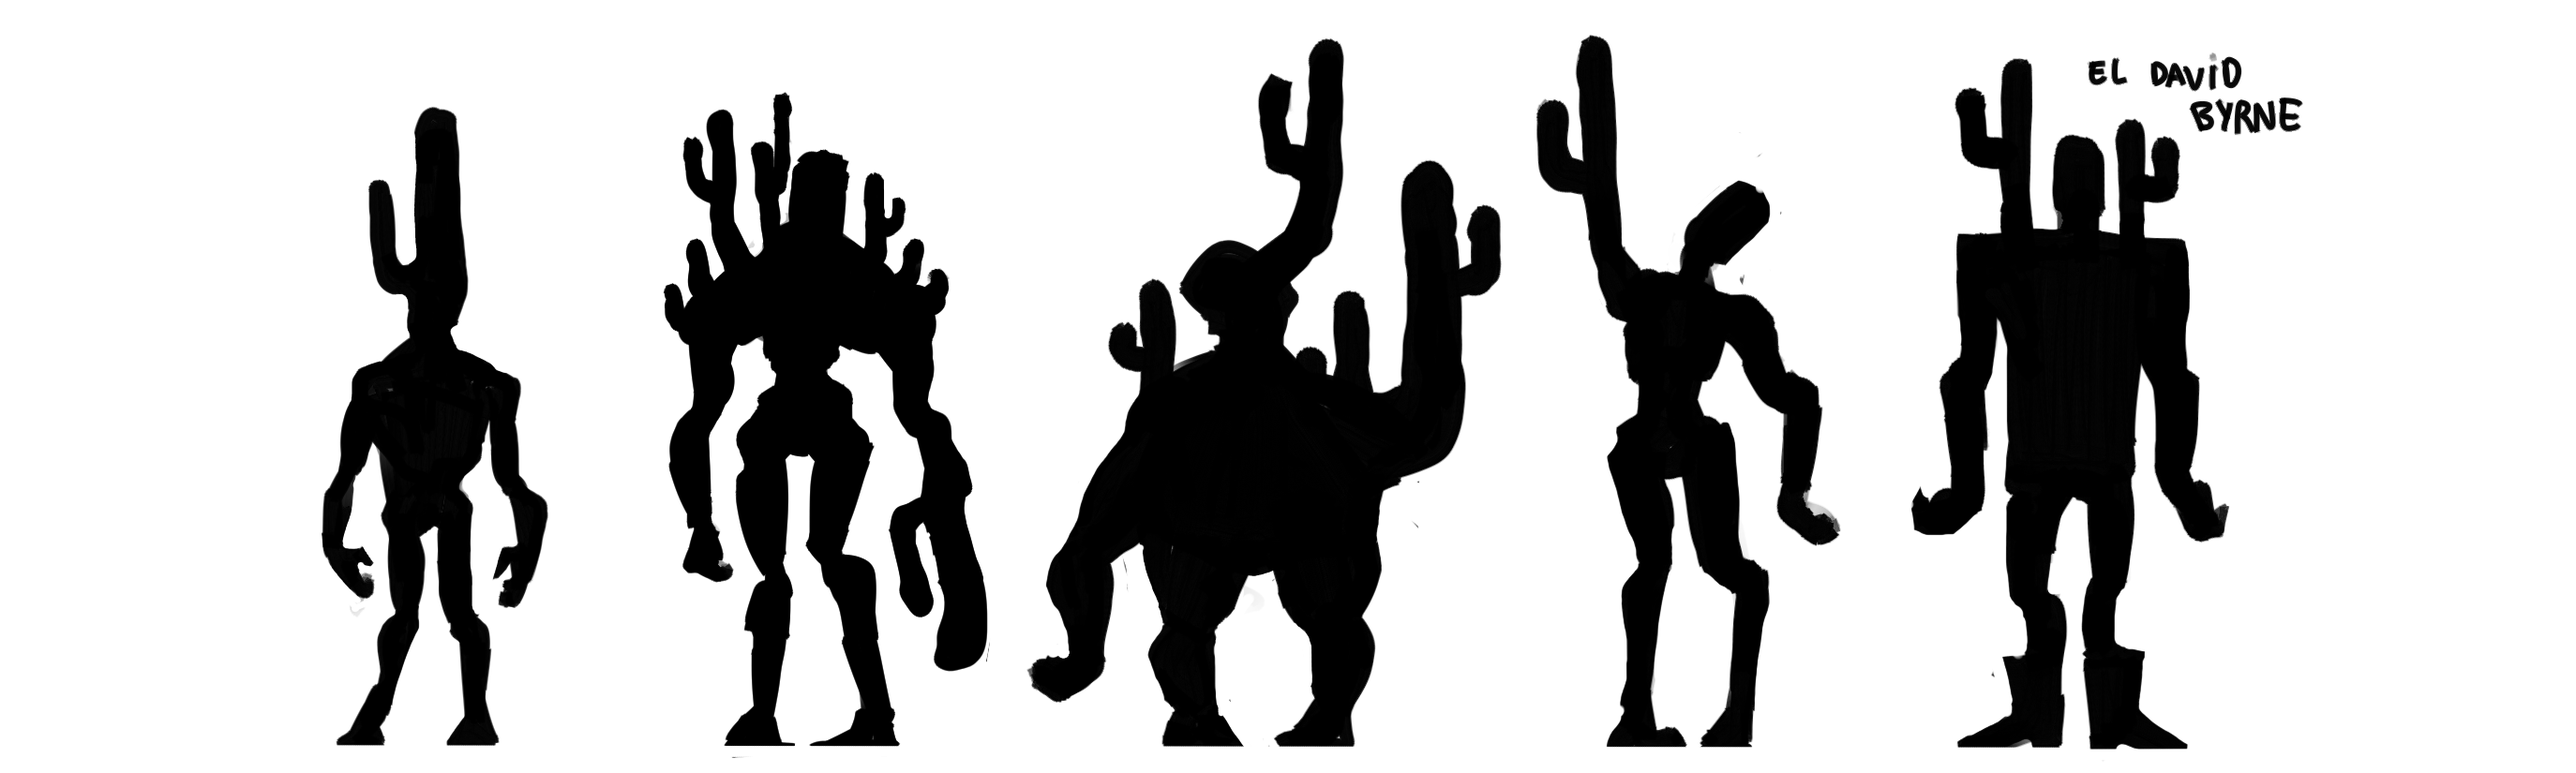
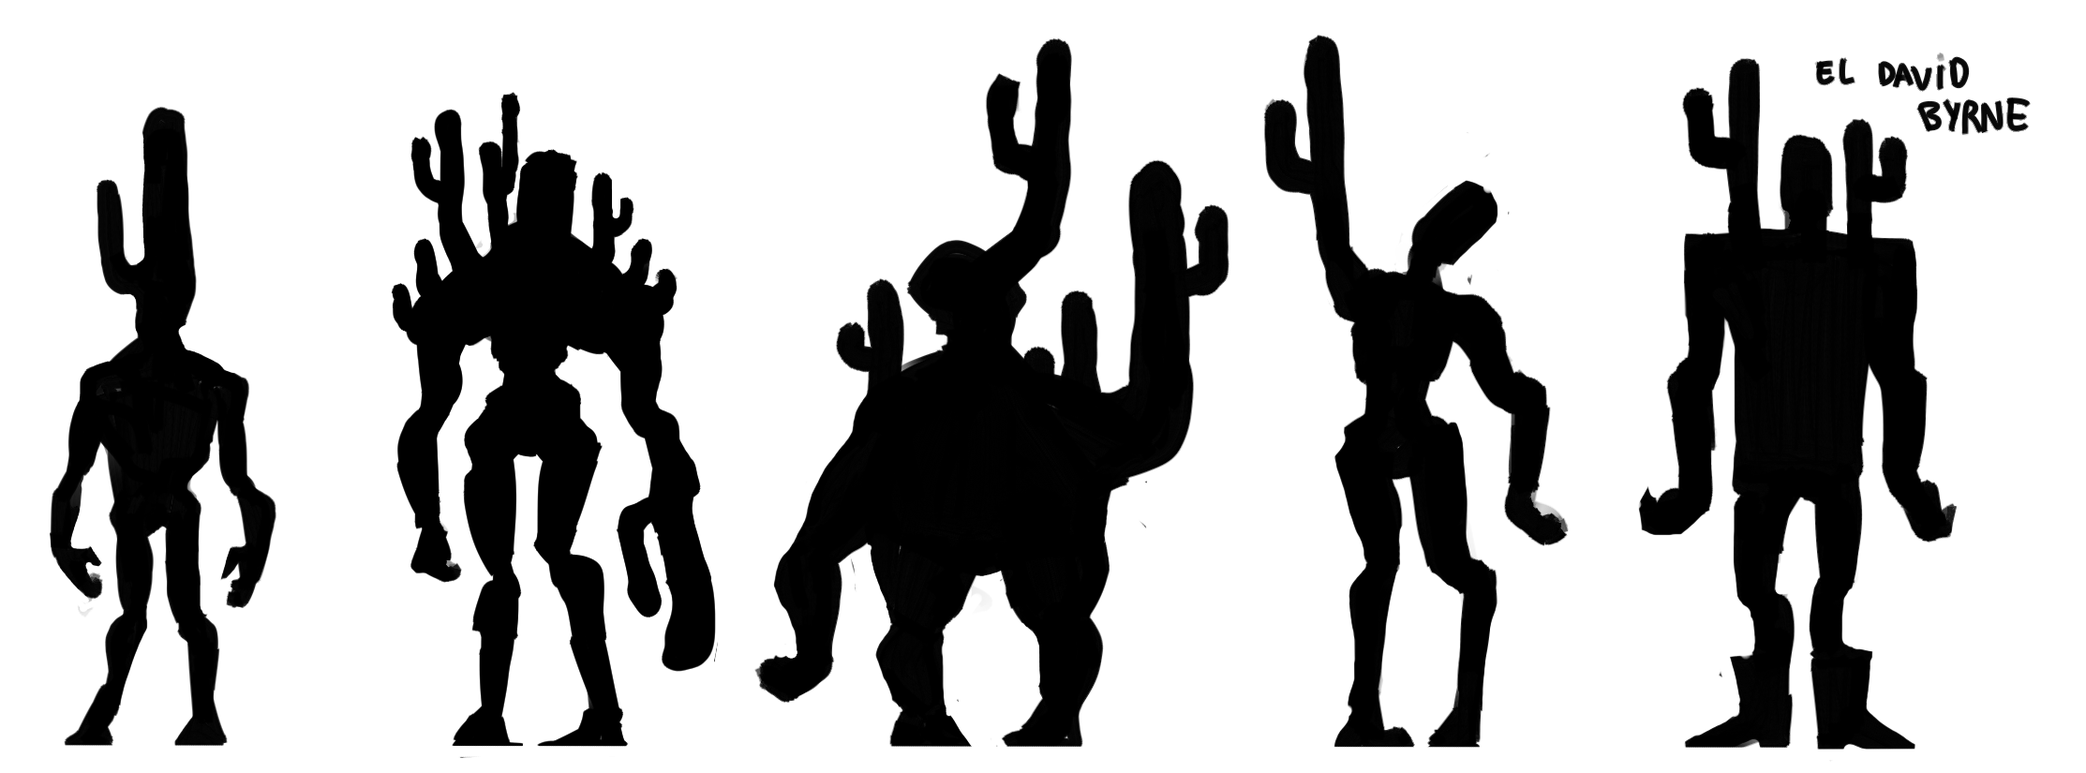
Update README.md
- Actualizacion de trasfondo (comentado lo anterior)
- Indexado nuevo por números (1.1, 1.2...)
- Siluetas enemigos actualizadas y ajustadas
:P

diff --git a/README.md b/README.md
@@ -1,23 +1,27 @@
-# Proyecto_Coyote 
-GAME DESIGN DOCUMENT
+# PROYECTO COYOTE
+**GAME DESIGN DOCUMENT**
 
-Eduardo Almarza Blasco • Antonio Bernal de Celis • David del Castillo Enríquez • Diego Fernández Manso • Candel Jiménez Gonzáles • Andrea Luengo Zazo 
+Eduardo Almarza Blasco • Antonio Bernal de Celis • David del Castillo Enríquez • Diego Fernández Manso • Candela Jiménez González • Andrea Luengo Zazo 
 
-# INTRODUCCIÓN 
-Este documento presenta el diseño y desarrollo del videojuego “Proyecto Coyote”, donde se expondrá el proceso creativo a lo largo del tiempo hasta su lanzamiento final. 
+# 1. Introducción
+**Este documento presenta el diseño y desarrollo del videojuego “Proyecto Coyote”, donde se expondrá el proceso creativo a lo largo del tiempo hasta su lanzamiento final.**
 
 “Proyecto Coyote” es un juego de acción frenética en 3D con cámara en tercera persona, centrado en la gestión de múltiples enemigos y el combate cuerpo a cuerpo. 
-## Concepto del juego 
+
+# 2. Concepto del juego 
 "Proyecto Coyote” es un videojuego donde el jugador tomará el papel de un vaquero que quiere realizar la última voluntad de su marido enterrando sus cenizas en un oasis cercano al pueblo donde nació, Pricklytown. Su viaje se complicará al llegar al poblado, que ha sido amenazado por una misteriosa infección desconocida que provoca mutaciones con forma de cactus en el cuerpo de quienes consumen el “sagrado” higo chumbo. 
 
+
+## Género 
+"Proyecto Coyote” es un videojuego de acción en tercera persona con combates frenéticos donde hay que enfocar a los monstruos para entrar en combate mientras esquivas y atacas al enemigo en tres direcciones: derecha, izquierda y atrás.
+
 ## Plataformas 
-“Proyecto Coyote” es un videojuego diseñado para lanzarse en web en la página de Itch.io, por lo que se podrá jugar tanto en un ordenador de sobremesa o portátil y dispositivos móviles. 
+“Proyecto Coyote” es un videojuego diseñado para su lanzamiento en web en Itch.io y estará disponible para ordenadores de sobremesa, portátiles y dispositivos móviles. 
 
 ## Características principales 
 Dinámicas de juego
 
-## Género 
-"Proyecto Coyote” es un videojuego de acción en tercera persona con combates frenéticos donde hay que enfocar a los monstruos para entrar en combate mientras esquivas y atacas al enemigo en tres direcciones: derecha, izquierda y atrás.
+
 
 ## Propósito y público objetivo 
 "Proyecto Coyote” surgió con la intención de dar a conocer una combinación de géneros poco conocida: western combinado con fantasía oscura. 
@@ -40,30 +44,53 @@ El modo **duelo** se produce cuando el jugador centra a un enemigo. En este modo
 
 Con esta estética se ha obtenido un resultado bla bla bla 
 
-# HISTORIA 
-## Ambientación 
+# 3. Historia
+## 3.1. Ambientación 
 "Proyecto Coyote” se desarrolla en un viejo oeste fantástico y oscuro. En este mundo existen magias como la necromancia, criaturas sobrenaturales, animales antropomórficos, entre otros. 
 
 La zona donde se desarrolla el videojuego es un área poblada en el desierto que se ha visto afectado por una misteriosa enfermedad que provoca mutaciones en el cuerpo y comportamientos agresivos.  
 
+
 ### Zonas de Proyecto Coyote
-  #### Pricklytown
+
+  ####  Pricklytown
   PROTA llega inicialmente a Pricklytown, el único poblado de la zona. Se trata de un pequeño burgo muy aislado, habitado por diversas criaturas de personalidades extravagantes. Hay unas pocas viviendas, comercios variados, un peculiar cantina "El Revólver Revoltoso" y un cochambroso hostal para viajeros desafortunados que acaban en Pricklytown.
-  #### El Cañón
+  ####  El Cañón
   PROTA se ve obligado a viajar hacia el oasis del sur, accesible desde Picklytown únicamente a través de un cañón. Se trata de una zona desértica, seca y vacía. Hay algunas edificaciones de madera y carros abandonados, ya que esta ruta era empleada por los habitantes de Pricklytown para transportar agua antes de la construcción del pozo.
-  #### El Oasis
+  ####  El Oasis
   El Oasis es una pequeña zona misteriosa y excesivamente frondosa. Los habitantes de Pricklytown afirman que, a pesar de contener agua, en el pasado prácticamente ninguna planta crecía en la zona, y que solo se conocía como oasis por tradición. Ahora es una exhuberante y densa jungla de todo tipo de cactus y plantas desérticas. En el oasis además hay una edificación puntiaguda que se asemeja a una iglesia.
+
+  *Estos lugares, en cuestiones de gameplay, se traducen directamente como niveles o zonas de progreso que el jugador deberá atravesar*
 
   
  
 
-## Back story 
-Cuando se creó el universo surgieron con él unos huevos primigenios capaces de engendrar vida y alterar el entorno de su alrededor, habitando planetas completamente. La existencia de estos huevos es desconocida. 
+## 3.2. Trasfondo
+*Existen manuscritos de eras ancestrales que teorizan sobre la existencia de unas cápsulas o huevos que surgieron con la creación del universo. En estas escrituras se les atribuye a estos huevos la capacidad de engendrar vida y alterar el entorno de su alrededor, consiguiendo habitar planetas yermos por completo.* 
 
-En el periodo histórico actual, los habitantes de Pricklytown, un pequeño poblado en el desierto, excavaron un canal subterráneo para facilitar la llegada de agua desde un pequeño oasis cercano. Esta excavación interfirió con uno de los huevos que había quedado enterrado hace millones de años. La hidratación de este huevo, causada por la llegada de agua desde el oasis, causó el crecimiento rápido de vegetación desértica que absorbió gran parte del agua del canal. Estos cactus y plantas además producían unos frutos jugosos similares a higos chumbos.
-Estos frutos resultaron irresistibles para los vecinos de Prickytown. La abundancia de higos fue muy conveniente, ya que los vecinos pasaban por un periodo de hambruna.
+### La sequía
 
-/Millones de años después, en medio del desierto, los habitantes del pueblo más cercano, Pricklytown, crearon un canal subterráneo para facilitar la llegada de agua gracias a un oasis cercano. Debido a estas obras despertaron a uno de estos huevos que creó unos misteriosos cactus que empezaron a brotar sobre él absorbiendo gran parte del agua del canal. De estos cactus se obtienen unos higos chumbos jugosos e irresistibles para los vecinos de Prickytown. La abundancia de estos frutos fue muy conveniente, ya que los vecinos pasaban por un periodo de hambruna./
+En el periodo histórico actual, los habitantes de Pricklytown, un pequeño poblado en el desierto, excavaron un canal subterráneo para facilitar la llegada de agua desde un pequeño oasis cercano. Esta excavación interfirió con un artefacto extraño, de aspecto alienígena y orgánico que los mineros fueron incapaces de retirar y acabaron ignorando. 
+
+Una vez inaugurado el canal, Pricklytown disfrutó de un corto periodo de abundancia gracias al nuevo acceso al manantial. Esta exhuberancia fue breve, pronto el agua escaseó, y tras una expedición, los vecinos del poblado descubrieron un bloqueo de vegetación en el oasis. 
+
+Antes triste y prácticamente árido, el oasis se había transformado ahora en una jungla frondosa de vegetación desértica, con cactus y plantas que bloqueaban el aceso al agua. Este descubrimiento tenía un lado positivo para los vecinos, que pasaban por un periodo de hambruna, ya que este rápido crecimiento también había causado la fructificación de unos jugosos higos en los cactus a los que los habitantes de Pricklytown no pudieron resistirse.
+
+
+Con el paso del tiempo las criaturas de la zona comenzaron a presentar malestar, aparentemente, debido al consumo del higo chumbo. Aquel que se alimentaba de los higos presentaba síntomas como deshidratación severa, cansancio y fiebre. Con el paso del tiempo, bultos y quistes verdosos brotaban en la piel y pronto se convertían en protuberancias vegetales y carnosas. 
+
+### La expedición
+El pueblo acordó organizar una expedición formada por matasanos, voluntarios y miembros de la iglesia para investigar el cambiado oasis. Semanas después de su partida, menos de la mitad regresaron. Los expedicionarios parecían haber enloquecido y afirmaban que el consumo de el higo permitía a cualquier criatura alcanzar la inmortalidad.
+
+La misión fue considerada fallida y se atribuyó la insanidad de los supervivientes a la deshidratación.
+
+### La llamada
+Con el grave periodo de escasez al que se enfrentaba Pricklytown y la incomprensibilidad general de los efectos de los higos, resultó imposible evitar que los vecinos se alimentaron de ellos.
+Quienes los consumían empeoraban con rapidez, y junto con los desagradables síntomas aparecían actitudes agresivas y destructivas. Los "infectados", como fueron etiquetados, eran trasladados recurrentemente al oasis por los pocos que resistían.
+
+El acceso a la jungla de cactus era cada vez más complicado. Según reportes de algunos transportistas, desde las afueras de la zona vegetal se escuchaban cánticos inentendibles, pero que parecían atraer con un extraño magnetismo a quienes los escuchaban. Quienes eran capaces de ignorar la llamada la comparaban con la mitología sobre el canto de las sirenas, pero negaban su sobrenaturalidad y atrubuían la atracción al agua fresca del oasis.
+
+<!--/Millones de años después, en medio del desierto, los habitantes del pueblo más cercano, Pricklytown, crearon un canal subterráneo para facilitar la llegada de agua gracias a un oasis cercano. Debido a estas obras despertaron a uno de estos huevos que creó unos misteriosos cactus que empezaron a brotar sobre él absorbiendo gran parte del agua del canal. De estos cactus se obtienen unos higos chumbos jugosos e irresistibles para los vecinos de Prickytown. La abundancia de estos frutos fue muy conveniente, ya que los vecinos pasaban por un periodo de hambruna./
 
 <img src="./Imagenes_README/HigoChumboÑam.png" alt="Higo" width="30%"/>
 
@@ -76,13 +103,13 @@ Al día siguiente de los 20 expedicionistas originales solo volvieron 7 cargados
 
 Los bendecidos con el “milagro chungo” fueron llevados de forma voluntaria o forzada a la nueva iglesia formada por aquellos miembros eclesiásticos que habían sobrevivido para realizar cultos y rituales con ellos. El “culto del higo” se expandió poco a poco hasta formar un ejército de criaturas cactus sedientas que buscaban fuentes de agua, ya fueran pozos en los pueblos o criaturas, para crecer y aumentar en número provocando disturbios en las áreas cercanas. 
 
-Año y medio después de los acontecimientos ocurrido empieza el viaje de nuestro protagonista. 
+Año y medio después de los acontecimientos ocurrido empieza el viaje de nuestro protagonista.--> 
 
 ### La infección
 El síntoma más vistoso de la enfermedad es el crecimiento de protuberancias con forma de cactus en el cuerpo de la criatura afectada. Estos además se comportan como si formaran parte de una mente colmena.
 Los estados de transformación por el “milagro chungo” se pueden dividir en 4 niveles dependiendo del tiempo que lleva el individuo enfermo. 
 
-#### Fases de contagio
+**Fases de contagio**
 
 <table>
   <tr>
@@ -92,17 +119,17 @@ Los estados de transformación por el “milagro chungo” se pueden dividir en 
   </tr>
   <tr>
     <td>1</td>
-    <td>El primer nivel va desde que ha consumido el higo hasta cinco días después. En este punto, los individuos no representan anomalías corporales, solo fiebre y cansancio.</td>
+    <td>Primeros cinco días tras el consumo del higo. En este punto, los individuos no representan anomalías corporales, únicamente fiebre. El consumidor deja de tener hambre y sed y se siente saciado.</td>
     <td><img src="./Imagenes_README/Nivel1.png" alt="Nivel 1" width="500"/></td>
   </tr>
   <tr>
     <td>2</td>
-    <td>En esta fase, a partir del quinto día hasta la segunda semana, el individuo empieza a presentar protuberancias en su piel rígida en la mitad superior del cuerpo, donde los pelos adoptan una postura rígida como si fueran espinas. Además de los síntomas anteriormente mencionados, los sujetos presentan síntomas de deshidratación, provocando en algunos casos diarrea.</td>
+    <td>En esta fase, a partir del quinto día hasta la segunda semana, el individuo empieza a presentar protuberancias en la piel, ahora áspera en la mitad superior del cuerpo, donde los pelos adoptan una postura rígida como si fueran espinas. Además de fiebre, los sujetos presentan síntomas de deshidratación, provocando en algunos casos diarrea.</td>
     <td><img src="./Imagenes_README/Nivel2.png" alt="Nivel 2" width="500"/></td>
   </tr>
   <tr>
     <td>3</td>
-    <td>Cuando ya han pasado dos semanas desde que se consumió el higo las protuberancias del nivel anterior crecen de forma significativa y obteniendo forma de cactus, el individuo presenta un nivel de deshidratación extremo provocando la desaparición de sus ojos. Su piel ha perdido su color natural y los síntomas del primer nivel han desaparecido. Los sujetos pierden el sentido del habla y tienen movimientos toscos.</td>
+    <td>Tras las dos semanas del consumo del higo las protuberancias del nivel anterior crecen de forma significativa y obteniendo forma de cactus, el individuo presenta un nivel de deshidratación extremo provocando la desaparición de sus ojos. Su piel ha perdido su color natural y los síntomas del primer nivel han desaparecido. Los sujetos pierden el sentido del habla y tienen movimientos toscos.</td>
     <td><img src="./Imagenes_README/Nivel3.png" alt="Nivel 3" width="500"/></td>
   </tr>
   <tr>
@@ -113,7 +140,7 @@ Los estados de transformación por el “milagro chungo” se pueden dividir en 
 </table>
 
   
-## Personajes principales 
+## 3.3. Personajes principales 
 * __(PROTA)__: Protagonista de “Proyecto Coyote”, es un vaquero que se dirige al oasis de Pricklytown para enterrar las cenizas de su difunto marido. Se trata de un humano de 40 años, robusto, con una actitud ruda. En sus brazos posee unas ruedas de revolver que sirven para lanzar sus manos como si fueran un gancho. 
 ## Enemigos 
 
@@ -124,17 +151,12 @@ Planteamiento de siluetas
   <img src="./Imagenes_README/SiluetasCactus2.png" alt="CactusZombieSiluetas" style="width: 49%"/>
 </div>
 
-<p align = "center">
- 
-</p>
 
-Desarrollo de las siluetas
 <p align = "center">
  <img src="./Imagenes_README/CactusZombie02.png" alt="CactusZombie02" width="60%"/>
  <img src="./Imagenes_README/CactusZombie01.png" alt="CactusZombie01" width="30%"/>
 </p>
 
-<img width="885" height="1263" alt="image" src="https://github.com/user-attachments/assets/e3a5a38e-1684-48e6-bdf0-bfe61dcf653c" />
 
 # JUGABILIDAD 
 ## Controles e interacción 
